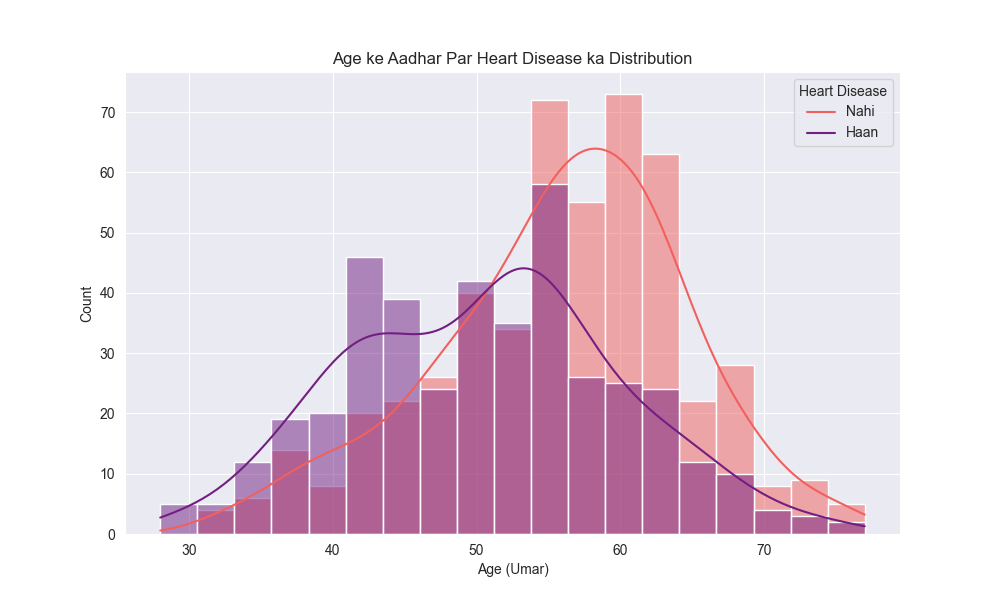
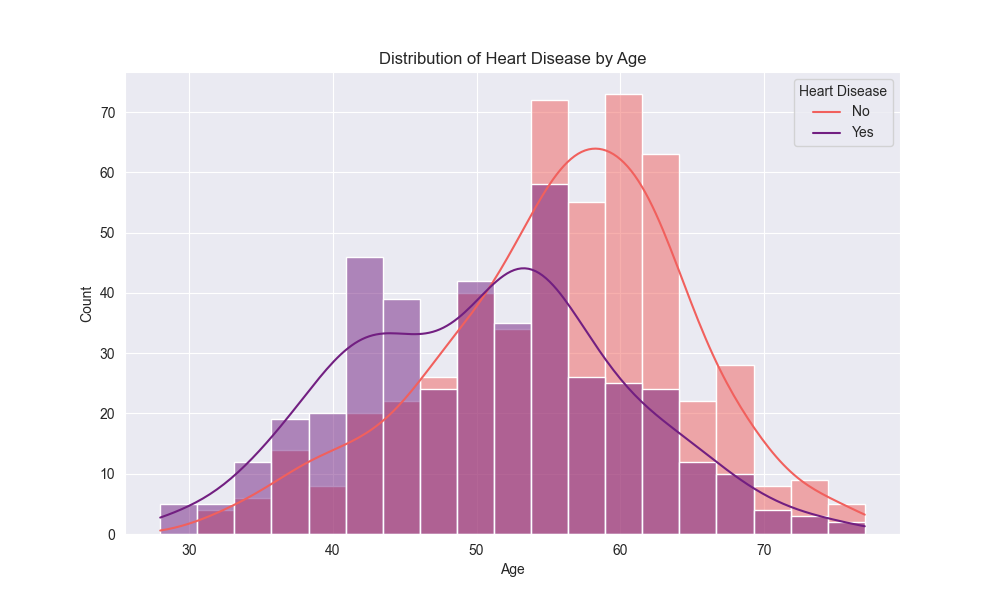
completed

Changed region(s): [[0.341, 0.09, 0.682, 0.12], [0.465, 0.93, 0.558, 0.96], [0.837, 0.18, 0.868, 0.24]]

diff --git a/code.py b/code.py
@@ -7,94 +7,95 @@ from sklearn.preprocessing import StandardScaler
 from sklearn.linear_model import LogisticRegression
 from sklearn.metrics import accuracy_score, classification_report, confusion_matrix
 
-print("Sabhi libraries successfully import ho gayi hain.")
+print("All libraries imported successfully.")
 
 try:
     data = pd.read_csv("heart1.csv")
-    print("Dataset successfully load ho gaya hai.")
+    print("Dataset loaded successfully.")
 except FileNotFoundError:
-    print("ERROR: File nahi mili. Kya aapne file ka naam 'heart1.csv' rakha hai?")
-    print("Please file ka naam check karein aur use sahi karein.")
+    print("ERROR: File not found. Did you name the file 'heart1.csv'?")
+    print("Please check the file name and correct it.")
     data = pd.DataFrame()
 
 if not data.empty:
-    print("\n--- Data ki pehli 5 rows ---")
+    print("\n--- First 5 rows of Data ---")
     print(data.head())
 
-    print(f"\nDataset mein {data.shape[0]} rows aur {data.shape[1]} columns hain.")
+    print(f"\nDataset contains {data.shape[0]} rows and {data.shape[1]} columns.")
 
     print("\n--- Column Information (Data Types) ---")
     data.info()
 
-    print("\n--- Data ka Statistical Summary ---")
+    print("\n--- Statistical Summary of Data ---")
     print(data.describe())
 
-    print("\n--- Missing Values ki Jaanch ---")
+    print("\n--- Checking for Missing Values ---")
     print(data.isnull().sum())
 
-    print("\n--- Duplicate Rows ki Jaanch ---")
+    print("\n--- Checking for Duplicate Rows ---")
     duplicate_count = data.duplicated().sum()
-    print(f"Duplicate rows ki sankhya: {duplicate_count}")
+    print(f"Number of duplicate rows: {duplicate_count}")
 
     if duplicate_count > 0:
         data = data.drop_duplicates()
-        print(f"Duplicate rows hata di gayi hain. Nayi shape: {data.shape}")
+        print(f"Duplicate rows removed. New shape: {data.shape}")
 
-    print("\n--- EDA aur Visualizations Shuru... ---")
+    print("\n--- Starting EDA and Visualizations... ---")
 
     sns.set_style("darkgrid")
 
+    # Assuming 'num' contains the diagnosis (0 = no disease, 1-4 = disease)
     data['target'] = (data['num'] > 0).astype(int)
 
     numeric_columns = data.select_dtypes(include=[np.number]).columns.tolist()
 
     plt.figure(figsize=(6, 5))
     sns.countplot(x='target', data=data)
-    plt.title("Heart Disease ka Distribution (0 = Nahi, >0 = Haan)")
+    plt.title("Distribution of Heart Disease (0 = No, >0 = Yes)")
     plt.xlabel("Target (Heart Disease)")
-    plt.ylabel("Count (Logon ki sankhya)")
+    plt.ylabel("Count (Number of People)")
     plt.savefig('output/code_target_distribution.png')
 
     plt.figure(figsize=(10, 6))
     sns.histplot(data=data, x='age', hue='target', kde=True, palette='magma')
-    plt.title("Age ke Aadhar Par Heart Disease ka Distribution")
-    plt.xlabel("Age (Umar)")
+    plt.title("Distribution of Heart Disease by Age")
+    plt.xlabel("Age")
     plt.ylabel("Count")
-    plt.legend(title='Heart Disease', labels=['Nahi', 'Haan'])
+    plt.legend(title='Heart Disease', labels=['No', 'Yes'])
     plt.savefig('output/code_age_distribution.png')
 
     plt.figure(figsize=(14, 10))
     numeric_data = data[numeric_columns]
     correlation_matrix = numeric_data.corr()
     sns.heatmap(correlation_matrix, annot=True, cmap='coolwarm', fmt='.2f', annot_kws={'size': 8})
-    plt.title("Numeric Features ka Correlation Heatmap")
+    plt.title("Correlation Heatmap of Numeric Features")
     plt.savefig('output/code_correlation_heatmap.png')
 
-    print("--- EDA aur Visualizations Poore Hue ---")
+    print("--- EDA and Visualizations Completed ---")
 
     columns_to_drop = ['target', 'num', 'id', 'dataset']
     X = data.select_dtypes(include=[np.number]).drop(columns=[col for col in columns_to_drop if col in data.columns], errors='ignore')
     y = data['target']
 
-    print(f"\nFeatures (X) ka shape (before cleaning): {X.shape}")
+    print(f"\nShape of Features (X) (before cleaning): {X.shape}")
 
     missing_before = X.isnull().sum().sum()
     print(f"Missing values in features: {missing_before}")
 
     if missing_before > 0:
         X = X.fillna(X.mean())
-        print("Missing values ko column means se fill kar diya gaya hai.")
+        print("Missing values have been filled with column means.")
 
         missing_after = X.isnull().sum().sum()
         print(f"Missing values after filling: {missing_after}")
 
-    print(f"Features (X) ka final shape: {X.shape}")
-    print(f"Target (y) ka shape: {y.shape}")
+    print(f"Final shape of Features (X): {X.shape}")
+    print(f"Shape of Target (y): {y.shape}")
 
     X_train, X_test, y_train, y_test = train_test_split(X, y, test_size=0.2, random_state=42)
 
-    print(f"\nTraining data (X_train) mein {X_train.shape[0]} samples hain.")
-    print(f"Testing data (X_test) mein {X_test.shape[0]} samples hain.")
+    print(f"\nTraining data (X_train) contains {X_train.shape[0]} samples.")
+    print(f"Testing data (X_test) contains {X_test.shape[0]} samples.")
 
     scaler = StandardScaler()
 
@@ -102,21 +103,21 @@ if not data.empty:
 
     X_test = scaler.transform(X_test)
 
-    print("\nData successfully scale ho gaya hai.")
+    print("\nData scaled successfully.")
 
-    print("Model training shuru ho gayi hai...")
+    print("Model training started...")
 
     model = LogisticRegression(max_iter=1000)
 
     model.fit(X_train, y_train)
 
-    print("Model successfully train ho gaya hai!")
+    print("Model trained successfully!")
 
     y_pred = model.predict(X_test)
 
     accuracy = accuracy_score(y_test, y_pred)
     print(f"\n--- Model Performance ---")
-    print(f"Model ki Accuracy: {accuracy * 100:.2f}%")
+    print(f"Model Accuracy: {accuracy * 100:.2f}%")
 
     print("\n--- Confusion Matrix ---")
     cm = confusion_matrix(y_test, y_pred)
@@ -125,8 +126,8 @@ if not data.empty:
     plt.figure(figsize=(6, 5))
     sns.heatmap(cm, annot=True, fmt='d', cmap='Blues')
     plt.title('Confusion Matrix')
-    plt.xlabel('Predicted (Model ne jo kaha)')
-    plt.ylabel('Actual (Asli mein jo tha)')
+    plt.xlabel('Predicted')
+    plt.ylabel('Actual')
     plt.savefig('output/code_confusion_matrix.png')
 
     print("\n--- Classification Report ---")
@@ -137,4 +138,3 @@ if not data.empty:
         f.write("Confusion Matrix:\n")
         np.savetxt(f, cm, fmt='%d')
         f.write(f"\n\nClassification Report:\n{classification_report(y_test, y_pred)}")
-
